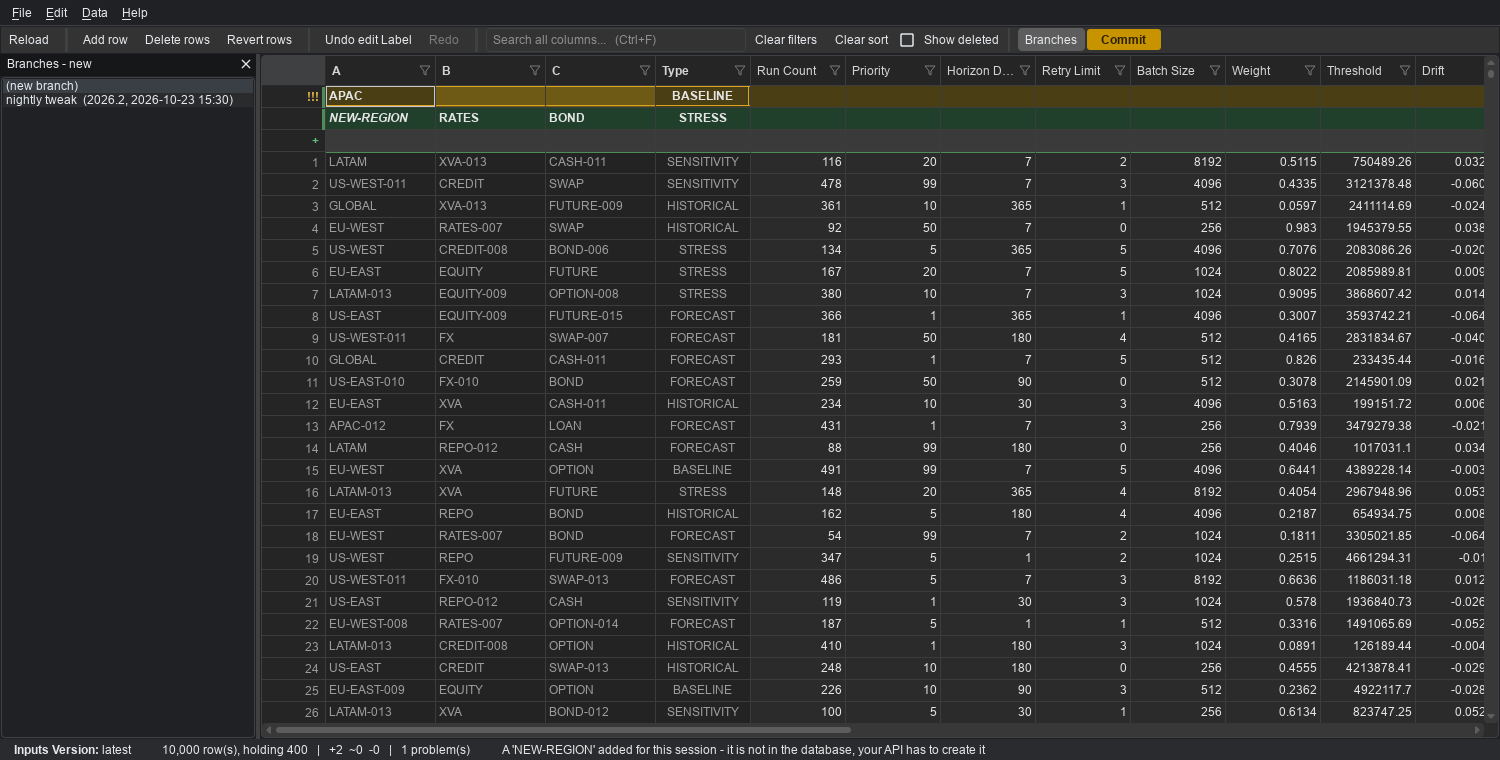
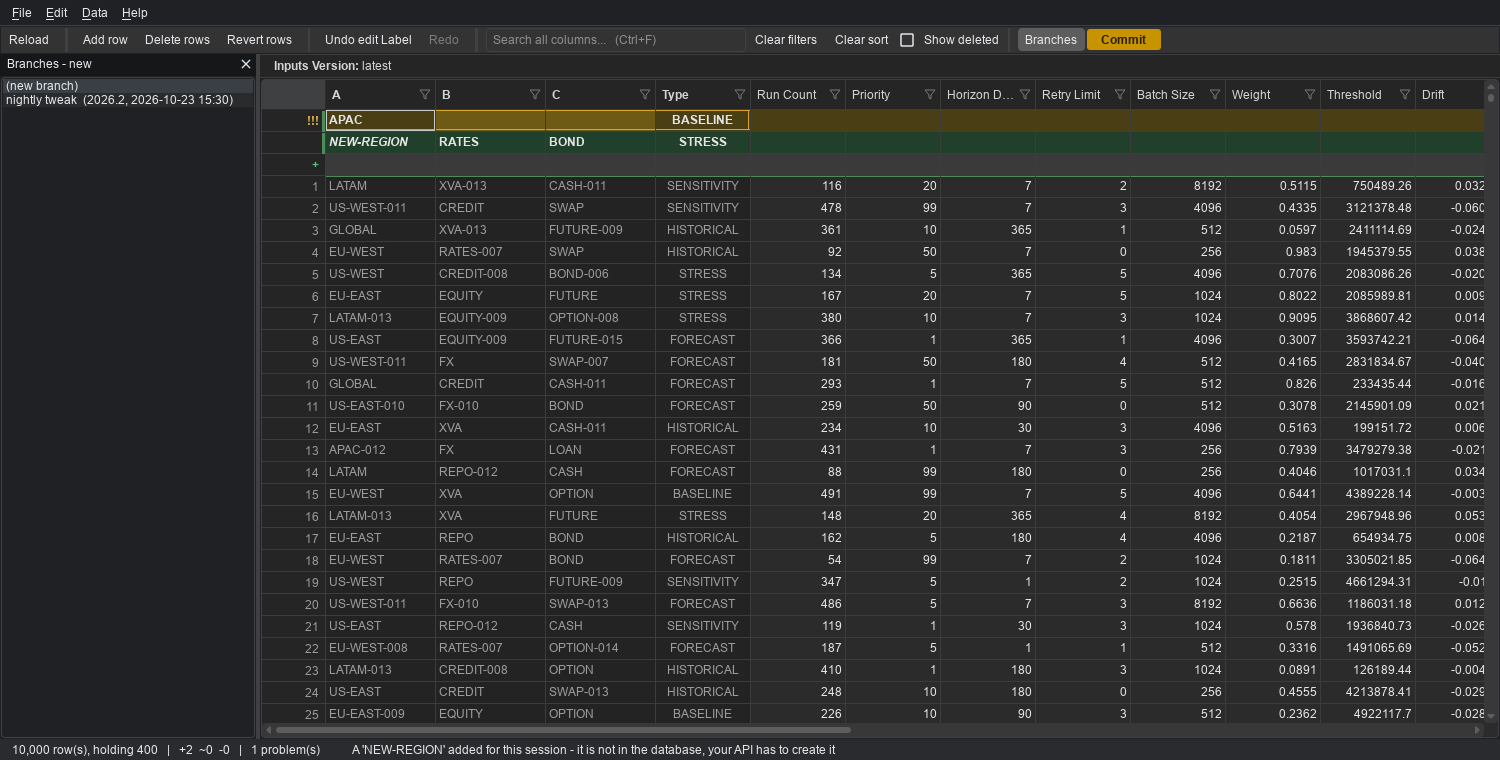
Move the version from the status bar to a strip above the sheet
It describes the sheet, so it reads against it: a thin band between the
toolbar and the grid rather than tucked away at the bottom of the window.

Styled through an object name in grid.stylesheet, so it follows a theme change
with nothing having to repaint it, and coloured like the headers so it reads
as part of the sheet's frame instead of as a second toolbar.

diff --git a/app.py b/app.py
@@ -470,7 +470,7 @@ class MainWindow(QMainWindow):
         # which is what decides the window to hold.
         self.view.setVerticalScrollMode(QAbstractItemView.ScrollMode.ScrollPerItem)
         self.view.verticalScrollBar().valueChanged.connect(self._window_follow)
-        self.setCentralWidget(self.view)
+        self.setCentralWidget(self._centre())
 
         self.branch: Optional[Branch] = None
         self._commit_button = None
@@ -493,6 +493,31 @@ class MainWindow(QMainWindow):
         self.reload()
 
     # ------------------------------------------------------------- chrome
+    def _centre(self) -> QWidget:
+        """The sheet, with the version reading directly above it.
+
+        One version per view, so it is stated once here rather than filling a
+        column with the same value on every row -- and it sits against the
+        sheet it describes, not away in the status bar.
+        """
+        #: Styled by `grid.stylesheet` through this object name, so it follows
+        #: a theme change without anything having to repaint it.
+        bar = QWidget()
+        bar.setObjectName("versionBar")
+        self._version_label = QLabel()
+        row = QHBoxLayout(bar)
+        row.setContentsMargins(10, 4, 10, 4)
+        row.addWidget(self._version_label)
+        row.addStretch(1)
+
+        centre = QWidget()
+        column = QVBoxLayout(centre)
+        column.setContentsMargins(0, 0, 0, 0)
+        column.setSpacing(0)
+        column.addWidget(bar)
+        column.addWidget(self.view, 1)
+        return centre
+
     def _build_branch_dock(self) -> None:
         """A collapsible list of branches in the Updates table.
 
@@ -660,15 +685,10 @@ class MainWindow(QMainWindow):
         return None
 
     def _build_status_bar(self) -> None:
-        #: One version per view, so it is stated once, on the left, instead of
-        #: filling a column with the same value on every row.
-        self._version_label = QLabel()
-        self._version_label.setContentsMargins(8, 0, 10, 0)
         self._counts_label = QLabel()
         self._stats_label = QLabel()
         self._message_label = QLabel()
         self._message_label.setContentsMargins(18, 0, 0, 0)
-        self.statusBar().addWidget(self._version_label)
         self.statusBar().addWidget(self._counts_label)
         self.statusBar().addWidget(self._message_label, 1)
         self.statusBar().addPermanentWidget(self._stats_label)

diff --git a/grid.py b/grid.py
@@ -234,6 +234,15 @@ QHeaderView::section {
 }
 QToolBar { border: 0px; padding: 2px; spacing: 2px; }
 QStatusBar::item { border: 0px; }
+/* The strip between the toolbar and the sheet, which says which version is
+   open. Headers-coloured so it reads as part of the sheet's frame rather
+   than as another toolbar. */
+QWidget#versionBar {
+    background: %(header)s;
+    border-top: 1px solid %(grid)s;
+    border-bottom: 1px solid %(grid)s;
+}
+QWidget#versionBar QLabel { color: %(header_text)s; }
 """ % {
         "base": C.base.name(), "text": C.text.name(), "grid": C.grid_line.name(),
         "header": C.header_bg.name(),

diff --git a/README.md b/README.md
@@ -203,9 +203,9 @@ them, so a selected row still shows its state.
   any cell of it and a fresh blank row appears below; paste 20 rows into it
   and 20 staged rows appear. Natural-key cells there are *not* greyed and
   each one is a drop-down of the live values from A/B/C/D and the enum.
-  The version is not among them: there is one per view, so a staged row
-  inherits it rather than having a column where every cell says the same
-  thing.
+  The version is not among them: there is one per view, so it reads on a strip
+  directly above the sheet and a staged row inherits it, rather than filling a
+  column with the same value on every row.
 
   A key column often needs a value the dimension does not have yet, so there
   are two ways to say so and they do the same thing: **type the label into the
